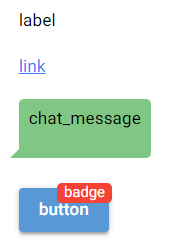
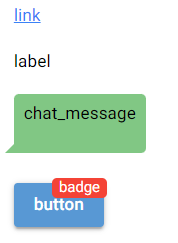
Update

diff --git a/webui/nicegui_pro.md b/webui/nicegui_pro.md
@@ -884,9 +884,13 @@ def index():
 ui.run(root=index,native=True)
 ```
 
-## 7 创建可刷新方法
+## 7 刷新控件
 
-绑定属性可以单向或者双向绑定控件的可绑定属性、对象的属性，无需额外执行控件的刷新方法。比如：
+### 7.1 刷新方法
+
+绑定属性可以单向或者双向绑定控件的可绑定属性、对象的属性，无需额外执行控件的刷新方法，即可刷新控件。
+
+比如：
 
 ```python3
 from nicegui import ui
@@ -901,7 +905,76 @@ ui.run(root=index,native=True)
 
 ![2026_7_1](nicegui_pro.assets/2026_7_1.png)
 
-但是，如果“属性”不是控件的属性，而是诸如个数之类需要重新创建控件的“属性”，绑定属性就没法直接实现，需要做一些额外的事情：
+同样的，如果直接修改控件的这类属性，一般无需额外执行控件的刷新方法，也能刷新控件：
+
+```python3
+from nicegui import ui
+
+def index():
+    my_input = ui.input('输入')
+    def update_input():
+        my_input.value = 'Hello'
+    ui.button(
+        'update input',
+        on_click=update_input
+    )
+
+ui.run(root=index,native=True)
+```
+
+![2026_7_2](nicegui_pro.assets/2026_7_2.png)
+
+但是，控件的部分属性需要刷新控件才能正确显示，就需要调用控件的刷新方法——`update`方法，比如：
+
+```python3
+from nicegui import ui
+
+def index():
+    my_ratio = ui.radio(
+        ['a','b','c'],
+        value='a'
+    )
+    def update_ratio():
+        my_ratio.options += ['Hello']
+        my_ratio.update()
+    ui.button(
+        'update ratio',
+        on_click=update_ratio
+    )
+
+ui.run(root=index,native=True)
+```
+
+![2026_7_3](nicegui_pro.assets/2026_7_3.png)
+
+使用`ui.update`方法和直接调用控件的`update`方法的效果一样，但`ui.update`方法支持传入任意数量控件，可以同时刷新多个控件：
+
+```python3
+from nicegui import ui
+
+def index():
+    my_ratio = ui.radio(
+        ['a','b','c'],
+        value='a'
+    )
+    def update_ratio():
+        my_ratio.options += ['Hello']
+        ui.update(my_ratio)
+    ui.button(
+        'update ratio',
+        on_click=update_ratio
+    )
+
+ui.run(root=index,native=True)
+```
+
+### 7.2 创建可刷新方法
+
+控件的刷新方法不是万能的。
+
+如果控件的个数与某个控件的属性相关，只是调用刷新方法的话，没法重新创建指定数量的控件。需要先清除原来的控件，再重新创建所有控件，才能实现想要的效果。
+
+比如，想要字母的个数与输入框内的数字同步：
 
 ```python3
 from nicegui import ui
@@ -933,7 +1006,7 @@ def index():
 ui.run(root=index,native=True)
 ```
 
-![2026_7_2](nicegui_pro.assets/2026_7_2.png)
+![2026_7_4](nicegui_pro.assets/2026_7_4.png)
 
 字母的个数与输入框内的数字是同步了，但需要使用全局变量存储个数，还需要借助额外的控件作为容器，容器内的多个控件比较紧凑，样式还要额外调整。
 
@@ -964,7 +1037,7 @@ ui.run(root=index,native=True)
 
 代码简洁不少，但效果更好：
 
-![2026_7_3](nicegui_pro.assets/2026_7_3.png)
+![2026_7_5](nicegui_pro.assets/2026_7_5.png)
 
 需要注意的是，在`refreshable`类、`refreshable_method`类装饰的函数（方法）内，所有创建的控件都会在调用`refresh`方法时重新创建，不会保存控件的状态：
 
@@ -1540,6 +1613,7 @@ NiceGUI的`ui`模块提供了程序所需的全部控件。不过控件数量较
 
 - `ui.label`控件，直接显示文本。
 - `ui.link`控件，将文本显示为超链接。
+- `ui.link_target`控件，与超链接相关，用于创建一个锚点，但不显示任何文本。比如，`ui.link_target('link')`可以创建锚点`link`，使用`ui.link('link_target','#link')`可以创建指向该锚点的超链接，点击该超链接，页面会自动跳转到该控件所在位置。对于下面的示例，需要将页面高度调到无法看到全部控件，点击超链接才能看到跳转效果。
 - `ui.chat_message`控件，将文本放入消息气泡。
 - `ui.badge`控件，将文本放入类似按钮的紧凑容器中，常用于当作现有控件的角标。
 
@@ -1549,8 +1623,8 @@ NiceGUI的`ui`模块提供了程序所需的全部控件。不过控件数量较
 from nicegui import ui
 
 def index():
+    ui.link('link','#link')
     ui.label('label')
-    ui.link('link','/')
     ui.chat_message('chat_message')
     with ui.button(
         'button'
@@ -1563,6 +1637,7 @@ def index():
         ).props(
             'floating'
         )
+    ui.link_target('link')
 
 ui.run(root=index,native=True)
 ```
@@ -2378,7 +2453,7 @@ ui.run(root=index, native=True)
 
   ![2026_15_21](nicegui_pro.assets/2026_15_21.png)
 
-- `ui.scene`控件，使用ThreeJs框架渲染三维模型。
+- `ui.scene`控件、`ui.scene_view`控件，使用ThreeJs框架渲染三维模型，前者为可以交换的3D视图，后者则是基于前者创建、不可交互的固定视角视图。
 
   示例如下：
 
@@ -2386,11 +2461,13 @@ ui.run(root=index, native=True)
   from nicegui import ui
   
   def index():
-      ui.scene().classes('w-64 h-64').box().material('red')
-  
+      scene = ui.scene().classes('w-64 h-64')
+      scene.box().material('red')
+      ui.scene_view(scene).classes('w-64 h-64')
+      
   ui.run(root=index, native=True)
   ```
-
+  
   ![2026_15_22](nicegui_pro.assets/2026_15_22.png)
 
 ### 15.16 创建布局
@@ -2404,6 +2481,7 @@ ui.run(root=index, native=True)
 - `ui.grid`控件，在上下文中添加的控件都放在指定规格（默认为`1x1`）的单元格中。
 - `ui.list`控件，在上下文中添加的`ui.item`控件、`ui.menu_item`控件、`ui.slide_item`控件排成一列，看上去与`ui.column`控件类似，但该控件的子控件之间更加紧凑。
 - `ui.card`控件，在上下文中添加的控件会放在默认带边框的卡片中。
+- `ui.item`控件、`ui.item_label`控件、`ui.item_section`控件，通常组合在一起使用，共同组成一个内容项目的整体，每个控件对应着内容的指定部分。
 
 示例如下：
 
@@ -2423,6 +2501,16 @@ def index():
             ui.item(str(i))
     with ui.card():
         ui.label('card')
+    with ui.item('item'):
+        with ui.item_section():
+            ui.item_label('label1')
+            ui.item_label('label2').props(
+                'caption'
+            )
+        with ui.item_section().props(
+            'side'
+        ):
+            ui.icon('home')
 
 ui.run(root=index,native=True)
 ```
@@ -2559,8 +2647,8 @@ ui.run(root=index,native=True)
 - ui.tabs、ui.tab、ui.tab_panels、ui.tab_panel
 - ui.carousel
 - ui.pagination
-- ui.stepper
-- ui.timeline
+- ui.stepper，ui.step, ui.stepper_navigation
+- ui.timeline，ui.timeline_entry
 
 
 
@@ -2582,8 +2670,6 @@ NiceGUI还提供了一类弹出提示信息的控件，用于提醒用户：
 - ui.notify
 - ui.notification
 - ui.dialog
-
-
 
 
 
@@ -3005,7 +3091,7 @@ def index():
 ui.run(root=index, native=True)
 ```
 
-## 20 修改指定控件（更新中）
+## 20 查询并修改指定控件（更新中）
 
 先说控件的`move`方法可以移动控件的位置，
 
@@ -3059,9 +3145,66 @@ app.storage
 
 
 
-## 25 读写剪贴板（更新中）
+## 25 使用`ui.clipboard`读写剪贴板（更新中）
 
 ui.clipboard
+
+
+
+## 26 使用`ui.download`下载文件（更新中）
+
+
+
+## 27 使用`ui.page_title`修改窗口标题（更新中）
+
+
+
+## 28 使用`ui.on`响应自定义事件（更新中）
+
+
+
+## 29 使用`ui.context`获取当前上下文（更新中）
+
+
+
+client和slot
+
+客户端：
+
+```python3
+from nicegui import ui
+
+async def index():
+    print(
+        ui.context.client.has_socket_connection
+    )
+    ui.label('未连接')
+    await ui.context.client.connected()
+    print(
+        ui.context.client.has_socket_connection
+    )
+    ui.label('已连接')
+
+ui.run(root=index,reload=False,native=True)
+```
+
+
+
+插槽：
+
+```python3
+from nicegui import ui
+
+def index():
+    slot = ui.context.slot
+    with ui.button('my button'):
+        with slot:
+            ui.button('ok')
+
+ui.run(root=index,native=True)
+```
+
+
 
 
 
@@ -3446,6 +3589,14 @@ NiceGUI的`ui`模块提供了程序所需的全部控件。不过，前面只是
 
 
 控件支持以下方法：
+
+
+
+## x 灵感（待定）
+
+更多内容参考 https://nicegui.io/documentation#map-of-nicegui ，看看有没有前面遗漏的。
+
+
 
 
 
